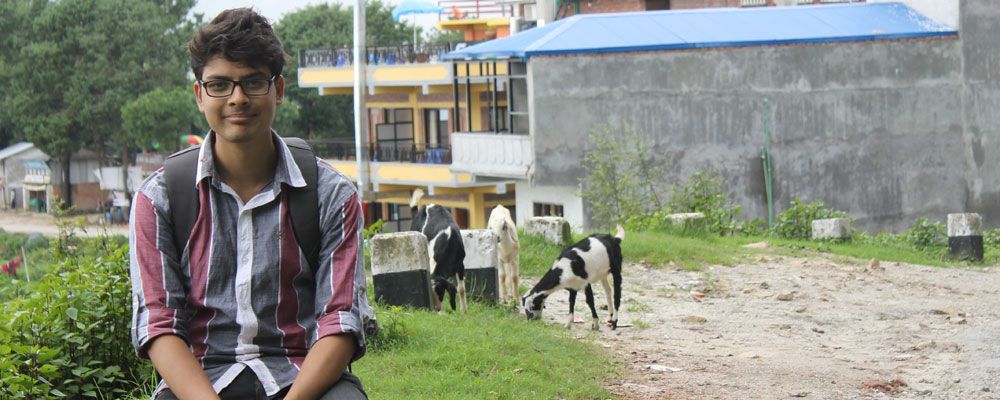
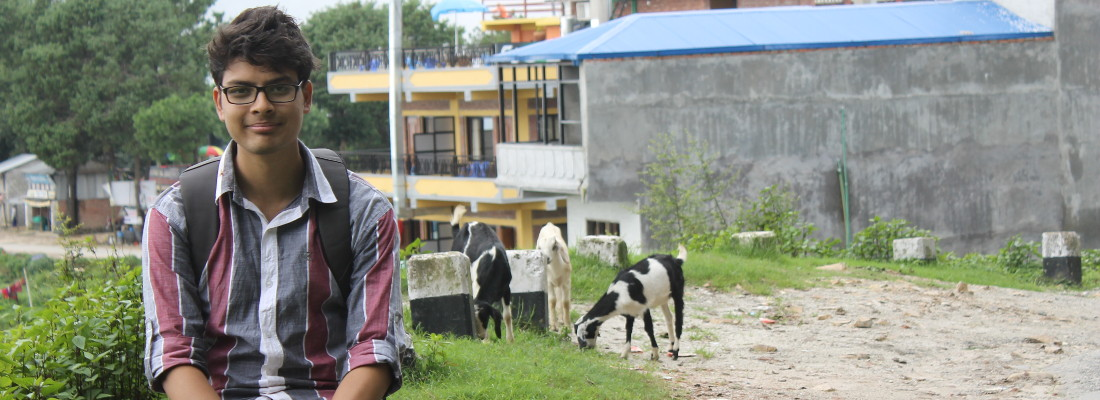
Rescaled images

diff --git a/index.html b/index.html
@@ -35,27 +35,27 @@
 			<div class="body_title"><h1 class="thin">Portfolio</h1></div>
 			<div class="body_cnt">
 				<ul>
-					<li style="background-image: url(images/portfolio/reinstallinghope.png);"><a href="http://reinstallinghope.org">
+					<li style="background-image: url(images/portfolio/reinstallinghope.jpg);"><a href="http://reinstallinghope.org">
 						<span>
 							<h2>Reinstalling Hope</h2> is a non-profit organization that works to close the gap between the quality of education between private and public schools in Nepal.
 						</span>
 					</a></li>
-					<li style="background-image: url(images/portfolio/squremote.png);"><a href="http://squgeim.blogspot.com/2013/12/squremote.html">
+					<li style="background-image: url(images/portfolio/squremote.jpg);"><a href="http://squgeim.blogspot.com/2013/12/squremote.html">
 						<span>
 							<h2>squRemote</h2> is an android app that can control any media playing in a computer.
 						</span>
 					</a></li>
-					<li style="background-image: url(images/portfolio/ktmroutes.png);"><a href="http://shreyadahal.net76.net/ktmroutes">
+					<li style="background-image: url(images/portfolio/ktmroutes.jpg);"><a href="http://shreyadahal.net76.net/ktmroutes">
 						<span>
 							<h2>ktm.Routes</h2> was a service to find public transport routes between given places in Kathmandu.
 						</span>
 					</a></li>
-					<li style="background-image: url(images/portfolio/manjulbhusal.png);"><a href="http://manjulbhusal.com.np">
+					<li style="background-image: url(images/portfolio/manjulbhusal.jpg);"><a href="http://manjulbhusal.com.np">
 						<span>
 							A <h2>wordpress theme</h2> for a personal blog.
 						</span>
 					</a></li>
-					<li style="background-image: url(images/portfolio/github.png);"><a href="http://github.com/squgeim">
+					<li style="background-image: url(images/portfolio/github.jpg);"><a href="http://github.com/squgeim">
 						<span>
 							More minor projects at <h2>GitHub</h2>.
 						</span>

diff --git a/style.css b/style.css
@@ -86,7 +86,7 @@ a:hover {
 }
 
 #pic {
-    background: url(images/pic.png) no-repeat center;
+    background: url(images/pic.jpg) no-repeat center;
     background-size: cover;
     margin: 50px -50px;
     height: 400px;
